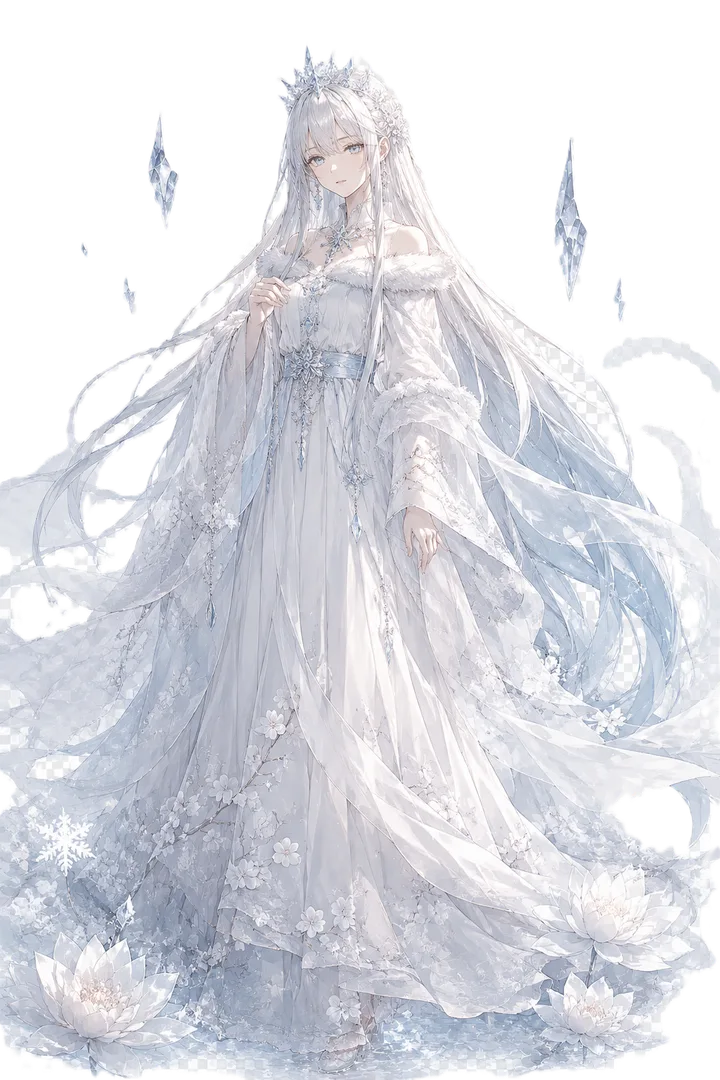
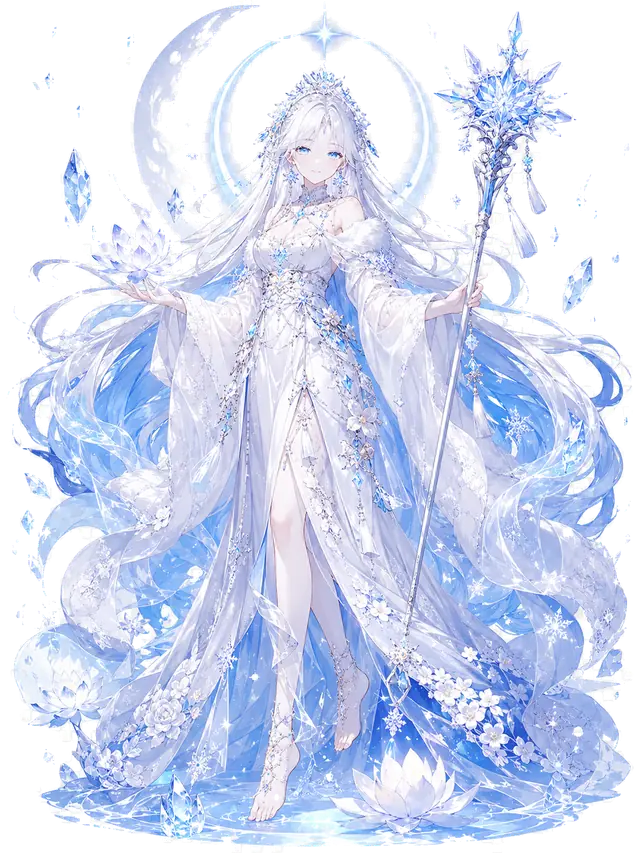
frontend: 接入四角色立繪（暗影/赤焰/青蘿）＋更新白棠（去假棋盤格背景）
ShatteredRealms 6ce10d0 推上真透明立繪（1086×1448 3:4）。以 sharp 重生四張 webp
（640w/q74，148–182KB）：public/art/portraits/{hakuto,shadow,sekien,aoiro}.webp
（hakuto 覆蓋舊圖修正先前假棋盤格背景）。Characters.astro 四英雄卡全接立繪
（object-fit contain 恰滿 3:4，元素光暈 drop-shadow），佔位分支保留供未來英雄。
npm run build（astro check 0 errors）綠、四圖落 dist。

Claude-Session: https://claude.ai/code/session_01HPGUpBHknL5v2ew83C4bcR

diff --git a/sessions/2026-07-21-sr-web-admin-geo.md b/sessions/2026-07-21-sr-web-admin-geo.md
@@ -1,8 +1,8 @@
 # Session：sr-web 後端後臺（可視化配置 / 登入 / 動態管理）＋ 後端主導分流（IP 地理 / 候選收斂）＋ 角色立繪接入
 
 - 建立：2026-07-21
-- 狀態：待驗收（Phase A–F 全數完成、backend `go build/vet/gofmt/test -race` 全綠、frontend `npm run build` 綠；剩「使用者部署端到端 + 視覺簽核」）
-- 進度摘要：**全六階段完成**。後端主導地理分流（收斂候選）＋即時 Store＋後臺（登入/動態管理）＋文件；前端採用後端建議入點＋白棠立繪＋Play 版面重排（尺寸模式/新分頁）。ShatteredRealms 已 pull，僅 hakuto 立繪到位（shadow/sekien/aoiro 未推送）。
+- 狀態：待驗收（Phase A–F 全數完成、backend `go build/vet/gofmt/test -race` 全綠、frontend `npm run build` 綠；剩「使用者部署端到端 + 視覺簽核」；準備開 PR）
+- 進度摘要：**全六階段完成**。後端主導地理分流（收斂候選）＋即時 Store＋後臺（登入/動態管理）＋文件；前端採用後端建議入點＋**四角色立繪全接入**＋Play 版面重排（尺寸模式/新分頁）。ShatteredRealms 二次 pull 取得 `6ce10d0`（去假棋盤格背景），四立繪全數重生為 webp 接入。
 - 相關：branch `claude/session-qo9e4e`（cloud，每階段 push）；契約 `src/lib/play.ts`；後端 `backend/`；立繪來源 ShatteredRealms `frontend/public/art/portraits/*.png`
 - Runtime: cloud（每階段 commit + push 到遠端 origin）
 
@@ -47,7 +47,7 @@
 5. **上線**：`region.url` 指真實遊戲主機；`allowedOrigins` 設 `sr.oha.li`；後臺置於可信網路 + TLS。
 
 ### 已完成（精簡摘要）
-- [x] **Phase F：pull ShatteredRealms**。fetch origin/main（仍 `7e922c5` Add Hakuto resources）；shadow/sekien/aoiro 立繪尚未推送 → 依指示結束立繪任務（hakuto 已於 Phase E 接入）。
+- [x] **Phase F：pull ShatteredRealms → 四立繪全接入**。二次 fetch origin/main 取得 `6ce10d0`（四角色立繪／頭像**去假棋盤格背景**、真透明 1086×1448 3:4）。由原圖以 sharp 重生 `public/art/portraits/{hakuto,shadow,sekien,aoiro}.webp`（640w、q74、~148–182KB，含 hakuto 覆蓋舊圖修正假背景）；`Characters.astro` 四英雄卡全接立繪（object-fit contain 恰滿 3:4）。四立繪已逐一目視確認角色正確、透明乾淨。build 綠、四圖落 dist、佔位 0。
 - [x] **Phase E：前端**。(a) 契約 `play.ts` 加 `recommendedId?`＋`pickEntryId`（**優先採用後端建議入點**）；`PlayLauncher` fetch 後以 `pickEntryId` 預選。(b) 英雄卡換裝槽接 `hakuto` 立繪：sharp 由 ShatteredRealms 原圖（1024×1536 透明）生成 `public/art/portraits/hakuto.webp`（720w，151KB）；`Characters.astro` 有 art 者疊 `<img class="hero-card__art">`（object-fit contain、置底、元素光暈 drop-shadow、hover 微放），無 art 者維持程序化佔位＋slotNote。(c) Play 版面重排：節點改**橫向可滑動卡片**置頂 → 嵌入視窗 → 控制列（進入/離線 + 尺寸模式**正常/劇場/全屏** + **新分頁開啟**）；劇場＝高身沉浸舞台、全屏＝原生 Fullscreen API（Esc 還原）、另加**拖拽把手調整高度**；i18n 三語補 `play.viewSize/size.*/newTab`。`npm run build`（astro check + build）綠、5 頁、PlayLauncher chunk 5KB。**待使用者視覺簽核**。
 - [x] **Phase D：文件**。backend/README 更新（地理分流收斂 + 後臺章節 + 設定表 + 結構）＋root README 後端 bullet。
 - [x] **Phase C：後臺（可視化配置 / 登入 / 動態管理）**。新增 `internal/admin`：PBKDF2-SHA256 密碼雜湊（stdlib）＋記憶體 session（隨機 token、HttpOnly/SameSite=Strict cookie、滑動續期）；首次未設定→啟動印一次性 setup token 引導建立帳密。路由（同源、不經 CORS、Go1.22 method-mux）：session/setup/login/logout＋state（即時節點狀態合併）＋節點 CRUD（新增/更新/刪除/停用）＋settings＋改密碼＋reprobe，皆經 Store 持久化並即時套用（router 重探）。變更請求做同源檢查（縱深防禦）。內嵌品牌化單頁後臺 `ui.html`（零外部資源、深色 sr 主題、節點表＋即時健康點＋表單，5s 自動刷新）。main 掛入 `Handler(admin)`。測試：auth（雜湊/驗證/session/過期）＋端到端 HTTP（setup 403/400/200、登入、CRUD、停用、設定、改密碼、登出 401、跨源 403、頁面）全綠、`-race` 綠。live smoke（loopback）：setup→動態加節點（router 即時納入）→cap3/4→401→持久化，全數確認。
